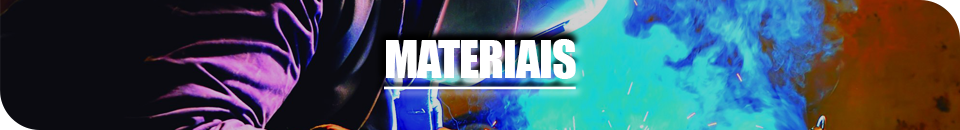
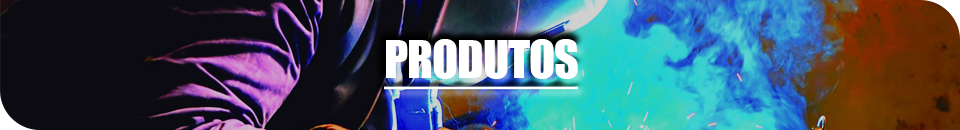
updates and fixeds in layout

Changed region(s): [[0.4062, 0.2462, 0.625, 0.6769], [0.5938, 0.6462, 0.625, 0.6769]]

diff --git a/themes/full-red/styles871b.css b/themes/full-red/styles871b.css
@@ -21,7 +21,7 @@ table, caption, tbody, tfoot, thead, tr, th, td {
 :focus {/* remember to define focus styles! */
 	outline: 0;
 }
-body { background: #fff; line-height: 1; }
+body { background: #ddd; line-height: 1; }
 ol, ul { list-style: none; }
 table {/* tables still need 'cellspacing="0"' in the markup */
 	border-collapse: separate;
@@ -56,10 +56,10 @@ u{
 }
 
 body{
-    background-color: #fff;
+    background-color: #ddd;
     color: #656253;
     font-family: Arial,Tahoma,Verdana;
-    font-size: 14px;
+    font-size: 16px;
     line-height: 20px;
 }
 
@@ -79,13 +79,13 @@ body{
     margin: 0 auto;
     width: 100%;
     position: relative;
-    background: #333367 center no-repeat;   
+    background: #353363 center no-repeat;   
 }
 
 #header-inner{
     position: relative;
     overflow: hidden;
-    width: 960px;
+    width: 100%;
     margin: 0 auto;
     min-height: 100px;
     background: no-repeat center;
@@ -93,9 +93,14 @@ body{
 
 #logo{
     position: absolute;
-    top: 30px;
-    right: 0px;
+    top: 80px;
+    right: 120px;
     color: #fff;
+}
+
+#logo-dois{
+    top: 55px;
+    position: relative;
 }
 
 #header-text{
@@ -134,7 +139,7 @@ body{
     display: block;
     float: left;
     height: 50px;
-    width: 170px;
+    width: 160px;
 }
 
 #main-menu a{
@@ -312,8 +317,6 @@ h5+h3{ margin-top: -5px !important; }
 ------------------------------------------------------------------------------*/
 
 #footer{
-    background: url(footer-bg.jpg) no-repeat center;
-    min-height: 135px;
 }
 
 #footer-inner{

diff --git a/contents/gases.php b/contents/gases.php
@@ -8,7 +8,7 @@
                     <tr>
                         <td valign="top" colspan="2">
                             <p><span style="font-size: x-large;"><strong>Gases</strong></span></p>
-                            <p>Com um amplo portfólio de gases industriais e medicinais, trabalhamos
+                            <p style="text-align: justify; font-size: 1.3em !important; font-family: 'Lucida Grande', Helvetica, Arial, sans-serif !important;">Com um amplo portfólio de gases industriais e medicinais, trabalhamos
                             exclusivamente com produtos certificados, produzidos por fabricantes reconhecidos
                             pela qualidade, confiabilidade e segurança de seus processos e equipamentos.</p>
                         </td>
@@ -18,7 +18,7 @@
                         <td valign="top" style="width: 50%">
 
                             <p><span style="font-size: x-large;"><strong>Gases Industriais</strong></span></p>
-                            <p><span>Gases industriais compõe um grupo de gases fabricados e vendidos para utilização em aplicações diversas. Estes gases, em geral usados em processos industriais, tais como fabricação de aço, de medicamentos, e alimentos, atividades de solda e corte, entre outros.</p>
+                            <p style="text-align: justify; font-size: 1.3em !important; font-family: 'Lucida Grande', Helvetica, Arial, sans-serif !important;"<span>Gases industriais compõe um grupo de gases fabricados e vendidos para utilização em aplicações diversas. Estes gases, em geral usados em processos industriais, tais como fabricação de aço, de medicamentos, e alimentos, atividades de solda e corte, entre outros.</p>
                             <ul style="margin:20px;">
                                 <li><strong>Acetileno</strong></li>
                                 <li><strong>Argônio / Argônio Ultra Puro</strong></li>
@@ -33,14 +33,14 @@
                             
                         </td>
                         <td style="width: 50%">
-                        <img style="float: right;margin-right:20px;" src="domains/oxigaslorena.com/media/Imagens-Full-red/banner-gas-industriais.png" />&nbsp;&nbsp;
+                        <img style="text-align: justify; float: right;margin-right:20px;" src="domains/oxigaslorena.com/media/Imagens-Full-red/banner-gas-industriais.png" />&nbsp;&nbsp;
                         </td>
                     </tr>
                     <tr><td valign="top" colspan="2">&nbsp;<hr></td></tr>
                     <tr>
                         <td style="width: 50%">
                             <p><span style="font-size: x-large;"><strong>Gases Medicinais</strong></span></p>
-                            <p><span>Os gases medicinais fornecidos pela Oxigás Lorena são produzidos, armazenados e distribuídos, se forma a atender às exigências da legislação brasileira. Estes gases são utilizados em diferentes situações clínicas e ambientes, de hospitais, a ambulâncias e uso doméstico segundo recomendação médica. </p>
+                            <p style="text-align: justify; font-size: 1.3em !important; font-family: 'Lucida Grande', Helvetica, Arial, sans-serif !important;"><span>Os gases medicinais fornecidos pela Oxigás Lorena são produzidos, armazenados e distribuídos, se forma a atender às exigências da legislação brasileira. Estes gases são utilizados em diferentes situações clínicas e ambientes, de hospitais, a ambulâncias e uso doméstico segundo recomendação médica. </p>
                             <ul style="margin:20px;">
                                 <li><strong>Ar Medicinal</strong></li>
                                 <li><strong>Dióxido de Carbono Medicinal</strong></li>

diff --git a/contents/contato.php b/contents/contato.php
@@ -7,24 +7,21 @@
                 <tbody>
                 <tr>
                     <td valign="top" style="width: 50%">
-                        <p><strong style="font-size: x-large; line-height: 1.5em;">Fale conosco!</strong></p>
-                        <p><strong>WhatsApp:</strong>&nbsp;<a href="https://wa.me/551231533330" target="_blank">(12) 3153-3330</a><br /></p>
-                        <p><strong>E-mail:</strong>&nbsp<a href="mailto:oxigas.84@gmail.com">oxigas.84@gmail.com</a></p>
-                        <p>Agende sua visita com um de nossos consultores de vendas, para uma melhor negociação.</p>
-                        <p>&nbsp;</p>
-                        <p><span style="font-size: x-large;"><strong>Horário de Funcionamento</strong></span></p>
-                        <p>Segunda a Sexta: 08h às 17:30h <br />(Feriados confirmar expediente)</p>
+                        <p style="font-size: 1.3em !important;"><strong style="font-size: x-large; line-height: 1.3em;">Fale conosco!</strong></p>
+                        <p style="font-size: 1.3em !important;"><strong>WhatsApp:</strong>&nbsp;<a href="https://wa.me/551231533330" target="_blank">(12) 3153-3330</a><br /></p>
+                        <p style="font-size: 1.3em !important;"><strong>E-mail:</strong>&nbsp<a href="mailto:oxigas.84@gmail.com">oxigas.84@gmail.com</a></p>
+                        <p style="font-size: 1.3em !important;">&nbsp;</p>
+                        <p style="font-size: 1.3em !important;"><strong>Horário de Funcionamento</strong></p>
+                        <p style="font-size: 1.3em !important;">Segunda a Sexta: 08:00h às 17:30h <br />(Feriados confirmar expediente)</p>
                         <br />
-                        <p>&nbsp;</p>
+                        <p style="font-size: 1.3em !important;">&nbsp;</p>
                     </td>
                     <td valign="top" style="width: 50%">
-                        <p><span style="line-height: 1.5em; font-size: x-large;"><strong><strong>Localiza&ccedil;&atilde;o:</strong></strong></span></p>
-                        <p><span style="line-height: 1.5em;">
-                        Avenida Targino Vilela Nunes, 899. Bairro Vila Nunes. Lorena, SP <br>CEP.: 12.603-000
-                    </p>
-                        <p><a href="https://goo.gl/maps/x2rUkhAf6KoAHAFH7" target="_blank"><span style="line-height: 1.5em;"><img src="domains/oxigaslorena.com/media/Imagens-Full-red/mapa.jpg" alt="" /><br /></span></a></p>
-                        <p><span style="line-height: 1.5em;">&nbsp;</span></p>
-                        <p>
+                        <p style="font-size: 1.3em !important;"><strong><strong>Localiza&ccedil;&atilde;o:</strong></strong></span></p>
+                        <p style="font-size: 1.3em !important;">Avenida Targino Vilela Nunes, 899. Bairro Vila Nunes. Lorena, SP <br>CEP.: 12.603-000</p>
+                        <p style="font-size: 1.3em !important;"><a href="https://goo.gl/maps/x2rUkhAf6KoAHAFH7" target="_blank"><span style="line-height: 1.3em;"><img src="domains/oxigaslorena.com/media/Imagens-Full-red/mapa.jpg" alt="" /><br /></span></a></p>
+                        <p style="font-size: 1.3em !important;"><span style="line-height: 1.3em;">&nbsp;</span></p>
+                        <p style="font-size: 1.3em !important;">
                     </td>
                 </tr>
                 </tbody>

diff --git a/contents/home.php b/contents/home.php
@@ -43,19 +43,18 @@
             
             <p style="color: #000000; font-family: 'Lucida Grande', Helvetica, Arial, sans-serif; font-size: 14px; font-style: normal; font-variant: normal; font-weight: normal; letter-spacing: normal; line-height: 18px; orphans: auto; text-align: start; text-indent: 0px; text-transform: none; white-space: normal; widows: auto; word-spacing: 0px; -webkit-text-stroke-width: 0px;"><br /><br /></p>
             <p style="text-align: center;">
-                <span style="color: #333366; font-size: xx-large;">
                 
-          <table style="width: 100%">
+          <table style="width: 95%">
                 <tbody>
                 <tr>
-                    <td valign="top">
-                        <p><span style="font-size: small; color: #be2124;"><strong><span style="font-size: x-large;"><span style="font-size: xx-large;">OXIGÁS LORENA</span></span></strong></span></p>
-                        <p><span style="font-size:;">Desde 1984 fornecendo de gases e materiais de qualidade, serviços e atendimentos com foco na agilidade e eficiência.<br /><br />
+                    <td valign="top" style="width: 36%">
+                        <p><strong><span style="font-size: x-large;"><span style="font-size: x-large;">OXIGÁS LORENA</span></strong></p>
+                        <p style="align:justify; font-size: 1.2em !important;">Desde 1984 fornecendo gases e<br> materiais&nbsp; &nbsp;de &nbsp;qualidade, &nbsp;assim<br> como &nbsp;serviços &nbsp;e &nbsp;atendimentos<br> com foco no &nbsp;respeito, &nbsp;agilidade<br> e eficiência.</p>
                         <a href="./?pagina=empresa"><img style="border: 0px;" src="domains/oxigaslorena.com/media/Imagens-Full-red/btn-more.png" alt="" width="185" height="35" /></a><br /></span></p>
                         <br>
                     </td>
                     <td valign="top">
-                        <img src="./domains/oxigaslorena.com/media/Imagens-Full-red/OXIGAS_03.jpg" width="600px">
+                        <img src="./domains/oxigaslorena.com/media/Imagens-Full-red/OXIGAS_03.jpg" width="550px">
                     </td>
                 </tr>
                 </tbody>

diff --git a/contents/empresa.php b/contents/empresa.php
@@ -6,9 +6,9 @@
             <table style="width: 100%">
                 <tbody>
                 <tr>
-                    <td style="width: 50%">
+                    <td valign="top" style="width: 90%">
                         <p><span style="font-size: xx-large;"><strong>Sobre a empresa</strong></span></p>
-                        <p>Fundada em 1984, a <strong>Oxigás Lorena</strong> atua a quase quatro décadas, em Lorena e
+                        <p style="text-align: justify; font-size: 1.3em !important; font-family: 'Lucida Grande', Helvetica, Arial, sans-serif !important;">Fundada em 1984, a <strong>Oxigás Lorena</strong> atua a quase quatro décadas, em Lorena e
 demais cidades do Vale do Paraíba e Sul de Minas, fornecendo Gases Industriais e
 Medicinais, Materiais para Solda e Corte, e Equipamentos de Proteção Individual,
 tendo como missão oferecer aos nossos clientes produtos de qualidade, e serviços
@@ -16,7 +16,7 @@ e atendimentos com foco na agilidade e eficiência.</p>
                         <p>&nbsp;</p>
                         
                     </td>
-                    <td style="width: 50%">
+                    <td style="width: 10%">
                         <p><br /><img style="border: 0px;" src="domains/oxigaslorena.com/media/Imagens-Full-red/banner-gas-empresa.png" />&nbsp;</p>
                     </td>
                 </tr>

diff --git a/contents/produtos.php b/contents/produtos.php
@@ -6,15 +6,15 @@
             <table style="width: 90%">
                 <tbody>
                     <tr>
-                        <td valign="top" style="width: 50%">
+                     <td valign="top" style="width: 90%">
 
-                            <p><span style="font-size: x-large;"><strong>Materiais</strong></span></p>
-                            <p>Nosso catálogo de produtos visa atender as necessidades envolvidas nas
+                            <p><span style="font-size: x-large;"><strong>Produtos</strong></span></p>
+                            <p style="text-align: justify; font-size: 1.3em !important;">Nosso catálogo de produtos visa atender as necessidades envolvidas nas
 atividades de corte e solda, com destaque para reguladores, maçaricos de corte e
 solda, bicos de corte, extensões de solda, eletrodos, arames, mangueiras, máscaras
 de solda e equipamentos de proteção individual e inaloterapia.</p>
                         </td>
-                        <td valign="top" style="width: 50%">
+                        <td valign="top" style="width: 10%">
                         <img style="float: right;margin-right:20px;" src="domains/oxigaslorena.com/media/Imagens-Full-red/banner-gas-materiais.png" />&nbsp;&nbsp;
                         </td>
                     </tr>

diff --git a/index.php b/index.php
@@ -15,11 +15,9 @@
       <meta property="http://ogp.me/ns#type" content="article"/>
       <meta property="http://ogp.me/ns#url" content="http://oxigaslorena.com/homepage-1"/>
       <meta property="http://ogp.me/ns#description" content=""/>
-      <link rel="stylesheet" type="text/css" media="all" href="themes/full-red/styles871b.css?v=1592244119" />
+      <link rel="stylesheet" type="text/css" media="all" href="themes/full-red/styles871b.css?v=12" />
       <script src="themes/libs/jquery.js"></script>
-      <script src="domains/init871b.js?v=1592244119"></script>
-      <script src="themes/full-red/init871b.js?v=1592244119"></script>
-      <style> .se-popup-wrap { position: fixed; width: 100%; height: 100vh; margin: 0px; padding: 0px; top: 0px; z-index: 999999999; } .se-popup-wrap .overlay { position: absolute; width: 100%; height: 100%; background: rgba(0, 0, 0, 0.30); } .se-popup-wrap .se-popup { position: relative; top: 100px; max-width: 740px; min-height: 240px; margin: 0 auto; background: #fff; z-index: 99999; padding: 10px; border-radius: 3px; } .se-popup-wrap .se-popup .close { position: absolute; top: 5px; right: 5px; width: 20px; cursor: pointer; } .se-popup-wrap .se-popup .img-wrap img { width: 100%; } </style>
+
    </head>
    <body style="">
       <div id="wrapper">

diff --git a/contents/servicos.php b/contents/servicos.php
@@ -6,13 +6,13 @@
             <table style="width: 90%">
                 <tbody>
                     <tr>
-                        <td valign="top" style="width: 50%">
+                        <td valign="top" style="width: 90%">
 
                             <p><span style="font-size: x-large;"><strong>Serviços</strong></span></p>
-                            <p>Trabalhamos com a locação de cilindros de gases industriais e medicinais, em
+                            <p style="text-align: justify; font-size: 1.3em !important;">Trabalhamos com a locação de cilindros de gases industriais e medicinais, em
 diferentes capacidades, visando atender às necessidades de nossos clientes.</p>
                         </td>
-                        <td valign="top" style="width: 50%">
+                        <td valign="top" style="width: 10%">
                         <img style="float: right;margin-right:20px;" src="domains/oxigaslorena.com/media/Imagens-Full-red/banner_servicos.png" />&nbsp;&nbsp;
                         </td>
                     </tr>

diff --git a/menu.php b/menu.php
@@ -4,7 +4,7 @@
             <li><a href="./"                 ><span class="<?php echo empty($pagina)         ? "selected" : "" ?>">INÍCIO</span></a></li>
             <li><a href="./?pagina=empresa"  ><span class="<?php echo $pagina == 'empresa'   ? "selected" : "" ?>">A EMPRESA</span></a></li>
             <li><a href="./?pagina=gases"    ><span class="<?php echo $pagina == 'gases'     ? "selected" : "" ?>">GASES</span></a></li>
-            <li><a href="./?pagina=materiais"><span class="<?php echo $pagina == 'materiais' ? "selected" : "" ?>">MATERIAIS</span></a></li>
+            <li><a href="./?pagina=produtos" ><span class="<?php echo $pagina == 'produtos'  ? "selected" : "" ?>">PRODUTOS</span></a></li>
             <li><a href="./?pagina=servicos" ><span class="<?php echo $pagina == 'servicos'  ? "selected" : "" ?>">SERVIÇOS</span></a></li>
             <li><a href="./?pagina=contato"  ><span class="<?php echo $pagina == 'contato'   ? "selected" : "" ?>">CONTATO</span></a></li>
         </ul>

diff --git a/topo.php b/topo.php
@@ -1,5 +1,10 @@
 <div id="header">
-    <div id="header-inner" style="height:180px; background-image: url(domains/oxigaslorena.com/media/Imagens-Full-red/capasitejuruna.jpg);">
+    <div id="header-inner" style="height:180px;">
+        <div id="logo-dois">
+        <center><img src="domains/oxigaslorena.com/media/Imagens-Full-red/logo-2.jpg"></center>
+        <div id="header-text"></div>
+        <div class="clear"></div>
+    </div>
         <div id="logo">
         <span style="font-weight: bold; font-size:16px;">Entre em contato:</span><br>
         <hr>

diff --git a/conteudo.php b/conteudo.php
@@ -10,8 +10,8 @@ switch ($pagina) {
     case 'materiais':
         require_once('contents/materiais.php');
         break;
-    case 'servicos':
-        require_once('contents/servicos.php');
+    case 'produtos':
+        require_once('contents/produtos.php');
         break;
     case 'contato':
         require_once('contents/contato.php');
